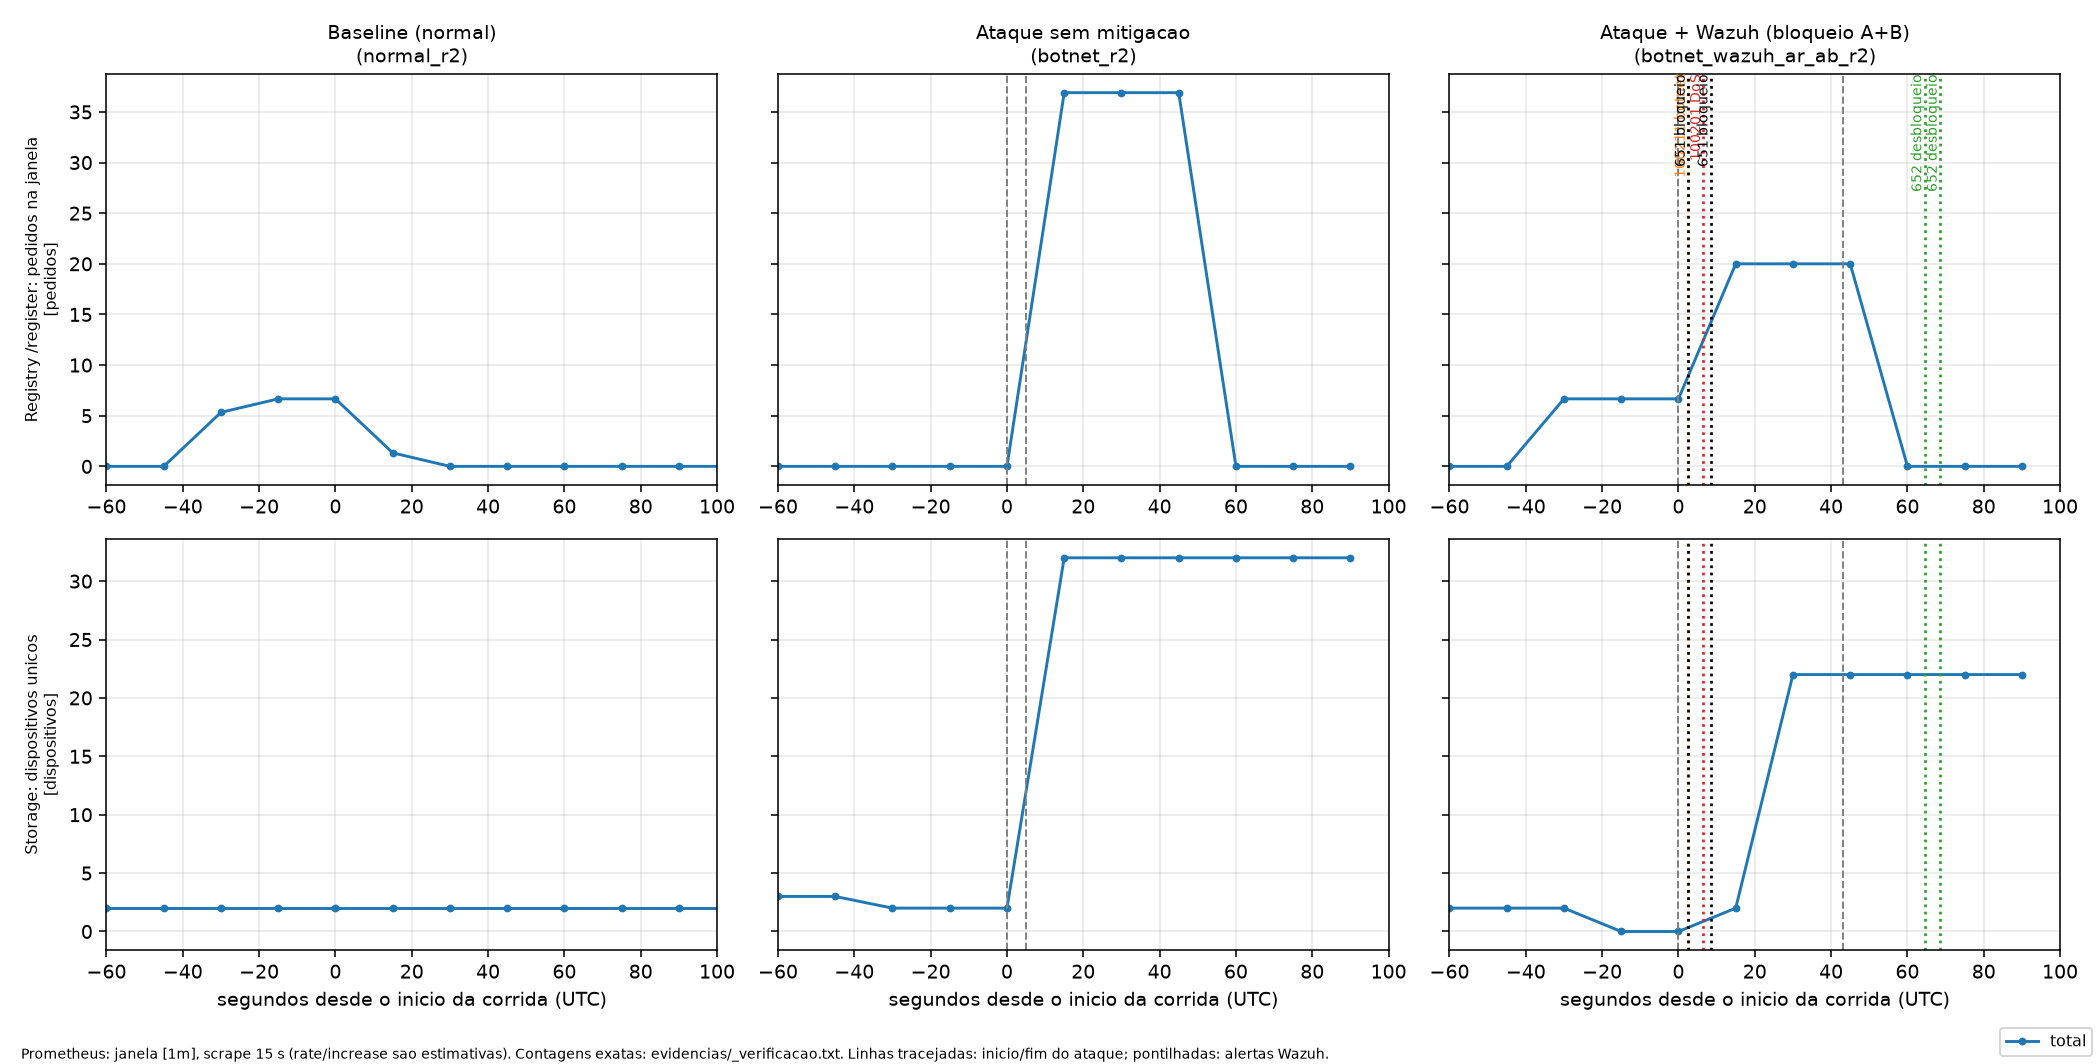
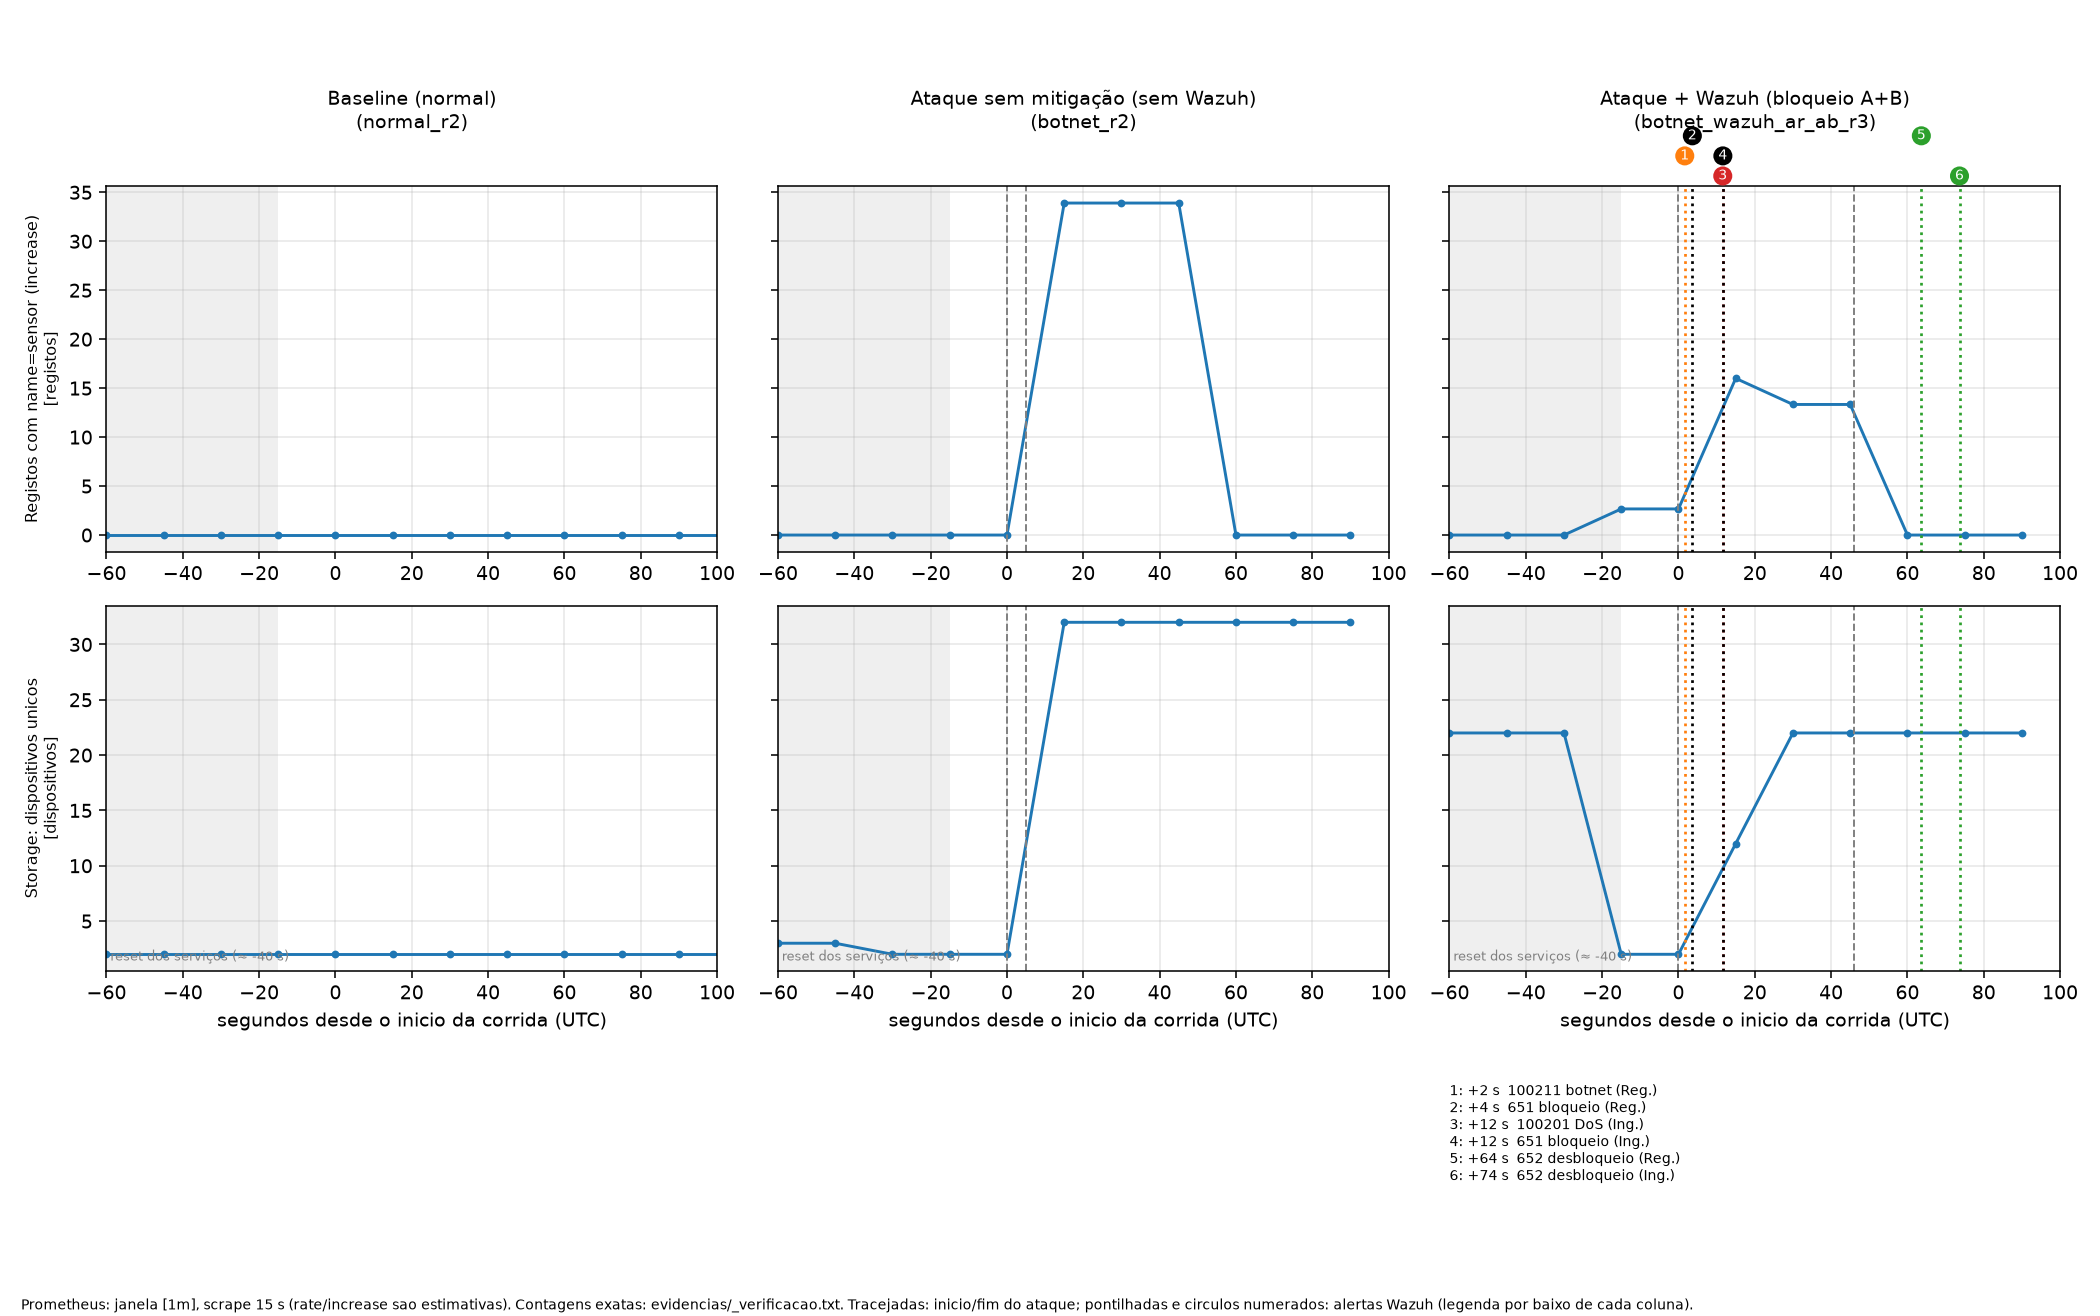
Figuras compostas 30s

diff --git a/P1/monitoring/graficos.py b/P1/monitoring/graficos.py
@@ -2,12 +2,12 @@
 """
 graficos.py - gera PNGs (e CSVs com os dados brutos) a partir do Prometheus
 para cada corrida de evidencias/, em graficos/<corrida>/<id>_<nome>.png
-Ou figuras compostas comparativas com --compor dos botnet hijack.
 
 Uso (na raiz de P1, com o venv ativo):
-  python3 monitoring/graficos.py --listar                 # so mostra o what faria
+  python3 monitoring/graficos.py --listar               # so mostra o que faria
   python3 monitoring/graficos.py --only dos_r2            # uma corrida
-  python3 monitoring/graficos.py --compor dos botnet hijack # gera figuras compostas para o relatorio
+  python3 monitoring/graficos.py --only dos_r2 botnet_r2  # varias
+  python3 monitoring/graficos.py                          # todas as validas
   python3 monitoring/graficos.py --rate 30s               # janela do rate()/increase()
 
 Janela do grafico: de (start - 60 s) ate (at + 30 s), step 15 s (= scrape).
@@ -109,6 +109,8 @@ def load_alerts():
 
 
 def label_of(metric):
+    if "container" in metric:                      # metricas do Incus: so o nome curto
+        return metric["container"].split("-")[0]
     parts = [f"{k}={v}" for k, v in metric.items() if k not in ("__name__", "job")]
     return ", ".join(parts) if parts else "total"
 
@@ -174,11 +176,11 @@ def plot_one(qid, rate, t0, t1, meta_marks, alerts, outdir, name):
 # --------------------------------------------------------------------
 FIGS = {
     "dos": (["normal_r2", "dos_r2", "dos_wazuh_ar_r2"], ["A1", "A4"],
-            ["Baseline (normal)", "Ataque sem mitigacao", "Ataque + Wazuh (bloqueio)"]),
-    "botnet": (["normal_r2", "botnet_r2", "botnet_wazuh_ar_ab_r2"], ["B1", "B6"],
-               ["Baseline (normal)", "Ataque sem mitigacao", "Ataque + Wazuh (bloqueio A+B)"]),
+            ["Baseline (normal)", "Ataque sem mitigação (sem Wazuh)", "Ataque + Wazuh (bloqueio)"]),
+    "botnet": (["normal_r2", "botnet_r2", "botnet_wazuh_ar_ab_r3"], ["B2", "B6"],
+               ["Baseline (normal)", "Ataque sem mitigação (sem Wazuh)", "Ataque + Wazuh (bloqueio A+B)"]),
     "hijack": (["normal_r2", "hijack_r2", "hijack_wazuh_r2"], ["C1", "C3"],
-               ["Baseline (normal)", "Ataque sem Wazuh", "Ataque + Wazuh (so deteccao, sem bloqueio)"]),
+               ["Baseline (normal)", "Ataque sem mitigação (sem Wazuh)", "Ataque + Wazuh (só deteção, sem bloqueio)"]),
 }
 
 
@@ -193,21 +195,25 @@ def run_times(name):
     return tipo, start, at, end
 
 
-def compor(tipo, rate):
+def compor(tipo, rate, sem5xx=False):
     cols, rows, titles = FIGS[tipo]
     alerts = load_alerts()
     xmax = OFFSET[tipo] + PAD_AFTER
-    fig, axes = plt.subplots(len(rows), len(cols), figsize=(15, 3.8 * len(rows)),
+    fig, axes = plt.subplots(len(rows), len(cols), figsize=(15, 3.8 * len(rows) + 1.8),
                              sharey="row", squeeze=False)
-    colors, handles = {}, {}
+    colors, handles, legends = {}, {}, []
     for j, name in enumerate(cols):
         ctipo, start, at, end = run_times(name)
         t0, t1 = start - PAD_BEFORE, at + PAD_AFTER
+        col_alerts = [a_ for a_ in alerts if t0 <= a_[0] <= t1] if ctipo != "normal" else []
+        legends.append((j, start, col_alerts))
         for i, qid in enumerate(rows):
             ax = axes[i][j]
             _, titulo, tmpl, div, ylab = Q[qid]
             for s in query_range(tmpl.replace("{R}", rate), t0, t1):
                 lab = label_of(s["metric"])
+                if sem5xx and lab.startswith("status=5"):    # omite os 5xx do Prometheus (ver log)
+                    continue
                 col = colors.setdefault(lab, f"C{len(colors) % 10}")
                 xs = [float(t) - start for t, _ in s["values"]]
                 ys = [float(v) / div if v not in ("NaN", "+Inf", "-Inf") else float("nan")
@@ -218,28 +224,43 @@ def compor(tipo, rate):
                 ax.axvline(0, color="gray", linestyle="--", linewidth=1)
                 if end is not None and end - start > 2:
                     ax.axvline(end - start, color="gray", linestyle="--", linewidth=1)
-                for t, rid, ag in alerts:
-                    if t0 <= t <= t1:
-                        ax.axvline(t - start, color=ALERT_IDS[rid], linestyle=":", linewidth=1.4)
-                        if i == 0:
-                            ax.text(t - start, 1.0, ALERT_TXT[rid], transform=ax.get_xaxis_transform(),
-                                    rotation=90, va="top", ha="right", fontsize=7, color=ALERT_IDS[rid])
+                for n, (t, rid, ag) in enumerate(col_alerts, 1):
+                    ax.axvline(t - start, color=ALERT_IDS[rid], linestyle=":", linewidth=1.4)
+                    if i == 0:   # circulo numerado por cima do eixo, em 3 alturas para nao sobrepor
+                        ax.text(t - start, 1.01 + 0.055 * (n % 3), str(n),
+                                transform=ax.get_xaxis_transform(), ha="center", va="bottom",
+                                fontsize=7, color="white", clip_on=False,
+                                bbox=dict(boxstyle="circle,pad=0.2", fc=ALERT_IDS[rid], ec="none"))
             ax.set_xlim(-PAD_BEFORE, xmax)
+            ax.axvspan(-PAD_BEFORE, -15, color="gray", alpha=0.12, lw=0)    # efeitos do reset (~-40 s)
+            if i == 0:   # etiqueta por cima da faixa, fora da area dos dados
+                ax.text(-PAD_BEFORE + 1, 1.01, "reset dos serviços (≈ -40 s)",
+                        transform=ax.get_xaxis_transform(), fontsize=6.5, color="gray", va="bottom")
             ax.grid(alpha=0.3)
             if i == 0:
-                ax.set_title(f"{titles[j]}\n({name})", fontsize=10)
+                ax.set_title(f"{titles[j]}\n({name})", fontsize=10, pad=30)
             if j == 0:
                 ax.set_ylabel(f"{titulo}\n[{ylab}]", fontsize=8)
             if i == len(rows) - 1:
                 ax.set_xlabel("segundos desde o inicio da corrida (UTC)")
-    if handles:
-        fig.legend(handles.values(), handles.keys(), loc="lower right", fontsize=8, ncol=len(handles))
+    if handles and not (len(handles) == 1 and "total" in handles):
+        fig.legend(handles.values(), handles.keys(), loc="upper center", fontsize=8,
+                   ncol=len(handles), bbox_to_anchor=(0.5, 1.0))
     fig.text(0.01, 0.005,
              f"Prometheus: janela [{rate}], scrape 15 s (rate/increase sao estimativas). "
-             "Contagens exatas: evidencias/_verificacao.txt. Linhas tracejadas: inicio/fim do ataque; "
-             "pontilhadas: alertas Wazuh.", fontsize=7)
-    fig.tight_layout(rect=(0, 0.03, 1, 1))
-    out = os.path.join("graficos", "_figuras", f"{tipo}_{rate}.png")
+             "Contagens exatas: evidencias/_verificacao.txt. Tracejadas: inicio/fim do ataque; "
+             "pontilhadas e circulos numerados: alertas Wazuh (legenda por baixo de cada coluna).",
+             fontsize=7)
+    fig.tight_layout(rect=(0, 0.2, 1, 0.95))
+    short = {"registry": "Reg.", "ingestion": "Ing."}
+    for j, start, col_alerts in legends:
+        if not col_alerts:
+            continue
+        pos = axes[-1][j].get_position()
+        txt = "\n".join(f"{n}: {t - start:+.0f} s  {ALERT_TXT[rid]} ({short.get(ag.split('-')[0], ag)})"
+                        for n, (t, rid, ag) in enumerate(col_alerts, 1))
+        fig.text(pos.x0, pos.y0 - 0.085, txt, va="top", fontsize=7)
+    out = os.path.join("graficos", "_figuras", f"{tipo}_{rate}{'_sem5xx' if sem5xx else ''}.png")
     fig.savefig(out, dpi=140)
     plt.close(fig)
     return out
@@ -252,11 +273,13 @@ def main():
     ap.add_argument("--listar", action="store_true")
     ap.add_argument("--compor", nargs="+", choices=list(FIGS),
                     help="gera a figura composta (baseline|ataque|Wazuh) por ameaca")
+    ap.add_argument("--sem-5xx", action="store_true",
+                    help="com --compor: nao desenha as series 5xx do Prometheus")
     a = ap.parse_args()
     if a.compor:
         os.makedirs(os.path.join("graficos", "_figuras"), exist_ok=True)
         for tipo in a.compor:
-            print("[ok]", compor(tipo, a.rate))
+            print("[ok]", compor(tipo, a.rate, a.sem_5xx))
         return
 
     dirs = sorted(d for d in glob.glob("evidencias/*/") if not os.path.basename(d.rstrip("/")).startswith("_"))
